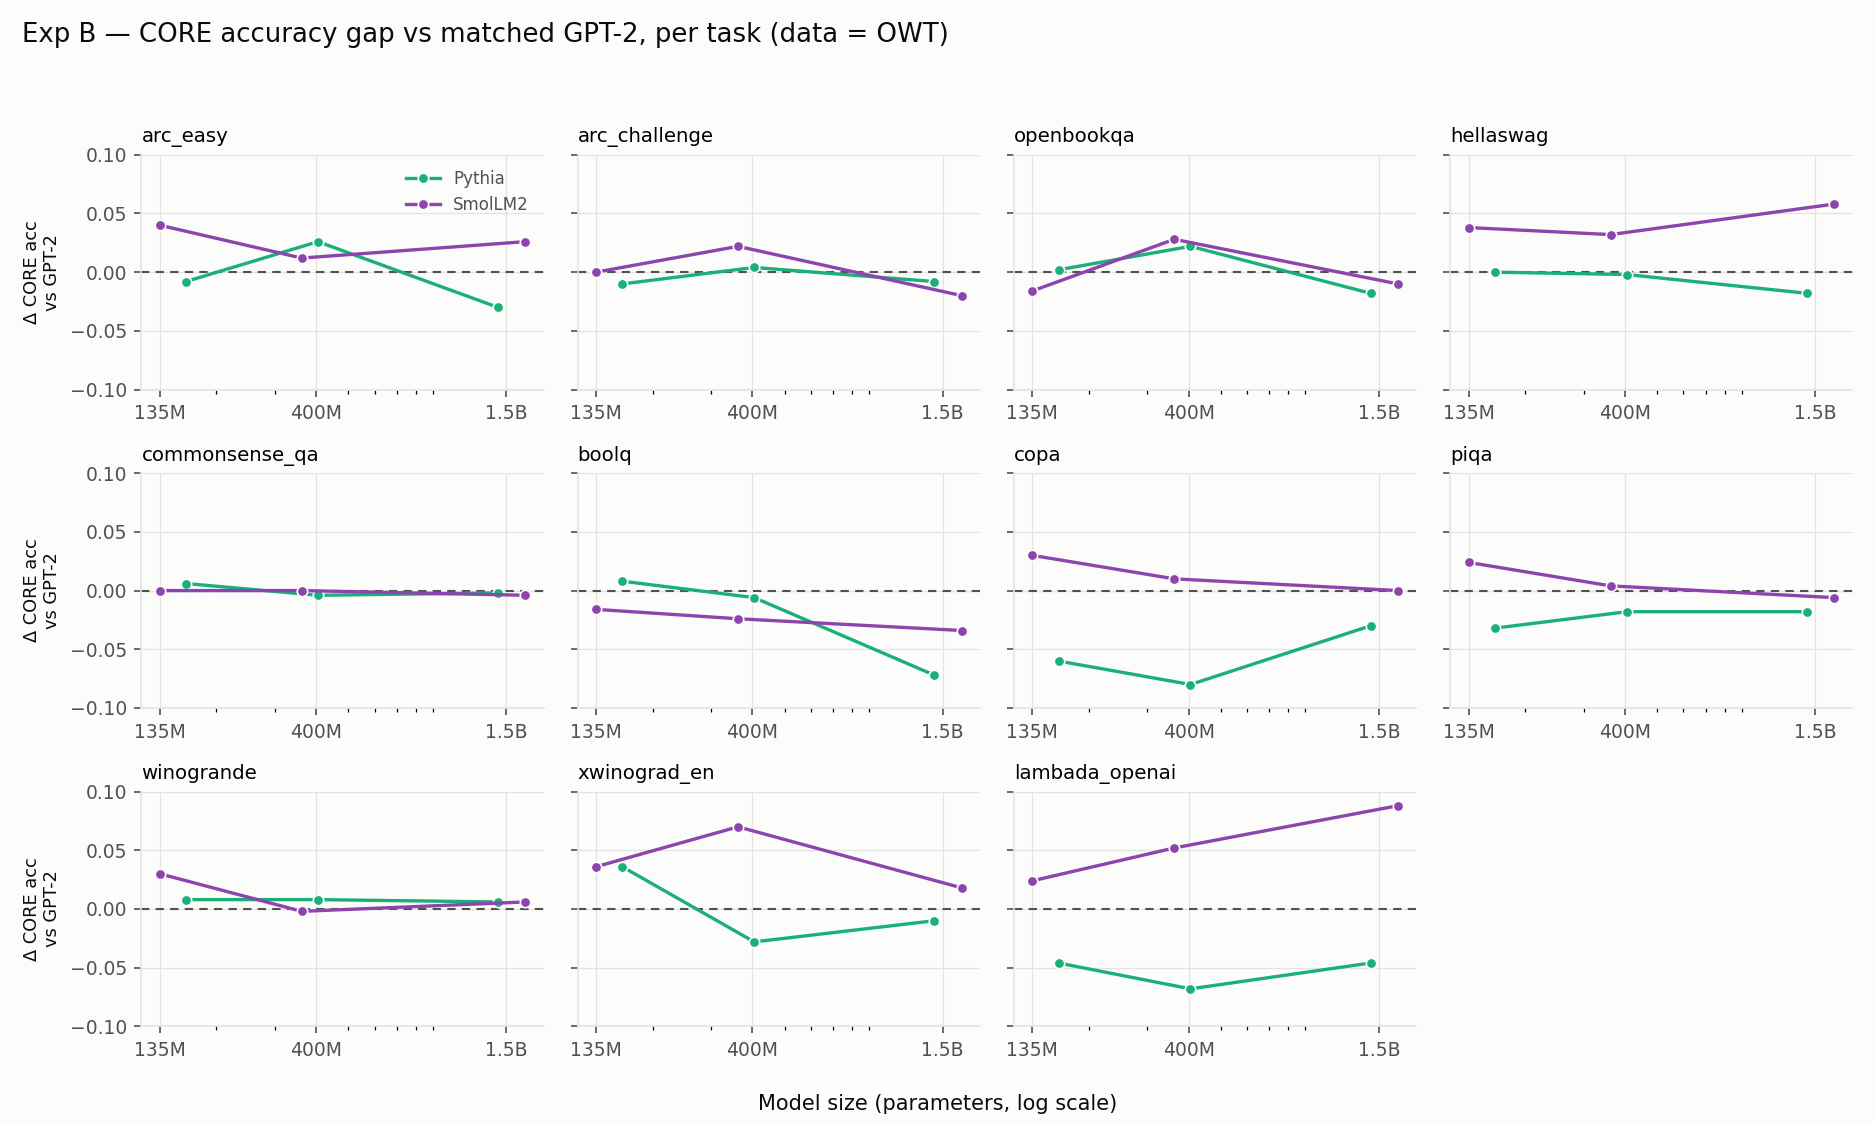
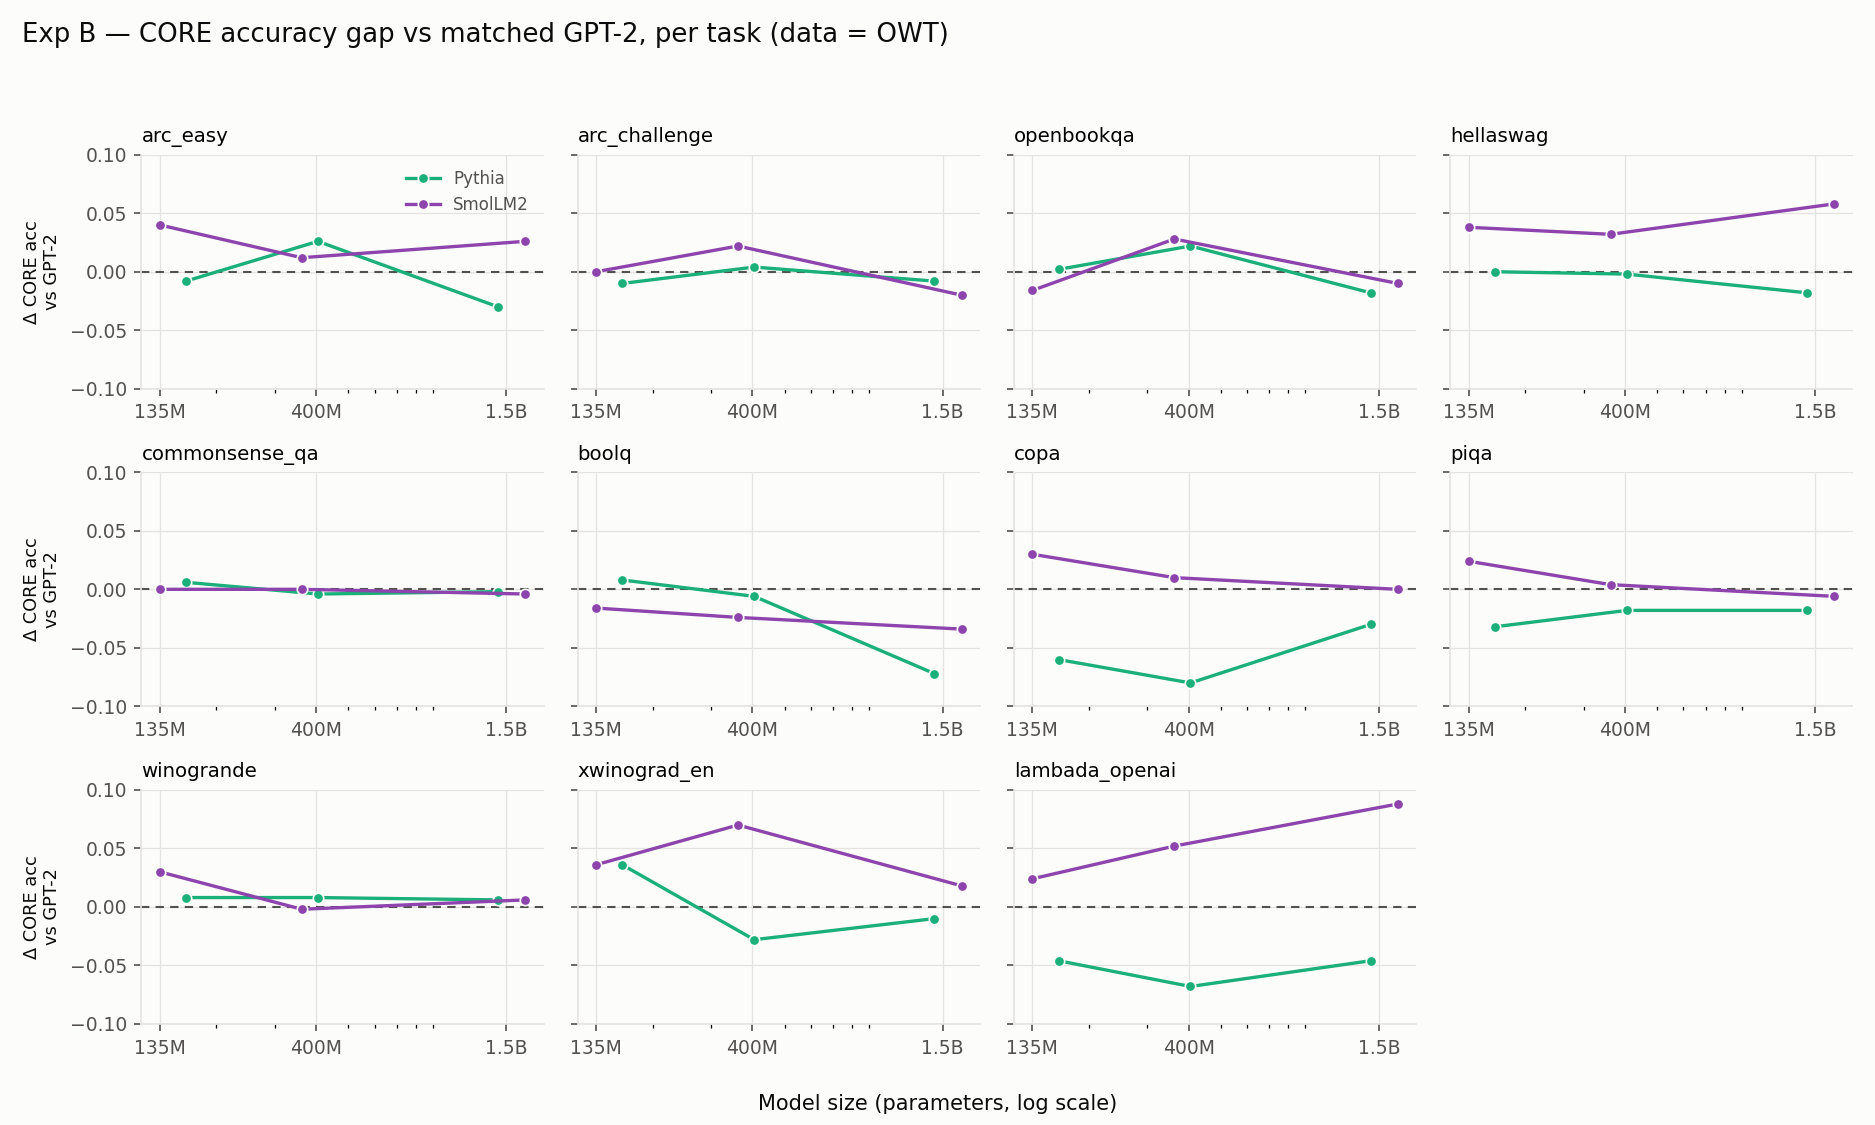
Fix supxlabel clipping on by-task figures: call supxlabel after tight_layout + reserve bottom margin, so the x-axis label is reliably visible

diff --git a/analysis/plots.py b/analysis/plots.py
@@ -359,10 +359,10 @@ def core_expb_by_task(root: Path, out_path):
     axf[0].legend(frameon=False, fontsize=8, labelcolor=INK2, loc="upper right")
     for r in range(nrow):
         axes[r, 0].set_ylabel("Δ CORE acc\nvs GPT-2", fontsize=8.5)
-    fig.supxlabel("Model size (parameters, log scale)", fontsize=10, color=INK)
     fig.suptitle("Exp B — CORE accuracy gap vs matched GPT-2, per task (data = OWT)",
                  fontsize=12.5, x=0.012, ha="left", color=INK)
-    fig.tight_layout(rect=(0, 0, 1, 0.95))
+    fig.tight_layout(rect=(0, 0.04, 1, 0.95))
+    fig.supxlabel("Model size (parameters, log scale)", fontsize=10, color=INK, y=0.01)
     fig.savefig(out_path, facecolor=SURFACE); plt.close(fig)
 
 
@@ -420,10 +420,10 @@ def core_expb_by_task_abs(root: Path, out_path):
     axf[0].legend(frameon=False, fontsize=8, labelcolor=INK2, loc="best")
     for r in range(nrow):
         axes[r, 0].set_ylabel("CORE accuracy", fontsize=8.5)
-    fig.supxlabel("Model size (parameters, log scale)", fontsize=10, color=INK)
     fig.suptitle("Exp B — CORE accuracy per task (11-task subset, ±1 stderr): each architecture vs GPT-2, data = OWT",
                  fontsize=12, x=0.012, ha="left", color=INK)
-    fig.tight_layout(rect=(0, 0, 1, 0.95))
+    fig.tight_layout(rect=(0, 0.04, 1, 0.95))
+    fig.supxlabel("Model size (parameters, log scale)", fontsize=10, color=INK, y=0.01)
     fig.savefig(out_path, facecolor=SURFACE); plt.close(fig)
 
 

diff --git a/analysis/plot_core_era_by_task.py b/analysis/plot_core_era_by_task.py
@@ -72,10 +72,10 @@ for j in range(len(TASKS), len(axf)):
 for r in range(nrow):
     axes[r, 0].set_ylabel("accuracy", fontsize=8.5)
 axf[0].legend(frameon=False, fontsize=8, labelcolor=INK2, loc="best")
-fig.supxlabel("Training-data corpus (release year)", fontsize=10, color=INK)
 fig.suptitle("Exp A — CORE accuracy per task, old vs new algorithm across data eras (124M)",
              fontsize=12.5, x=0.012, ha="left", color=INK)
-fig.tight_layout(rect=(0, 0, 1, 0.95))
+fig.tight_layout(rect=(0, 0.04, 1, 0.95))
+fig.supxlabel("Training-data corpus (release year)", fontsize=10, color=INK, y=0.01)
 out = ROOT / "core_era_by_task.png"
 fig.savefig(out, facecolor=SURFACE); plt.close(fig)
 print("wrote", out)
